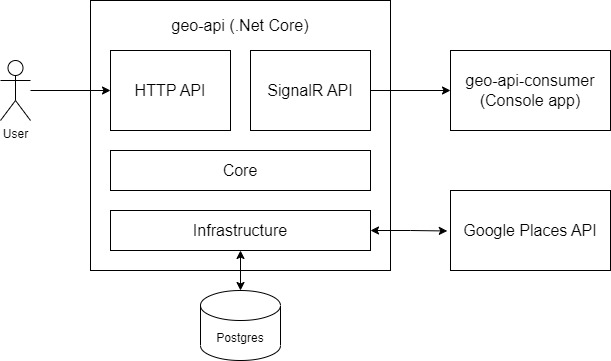
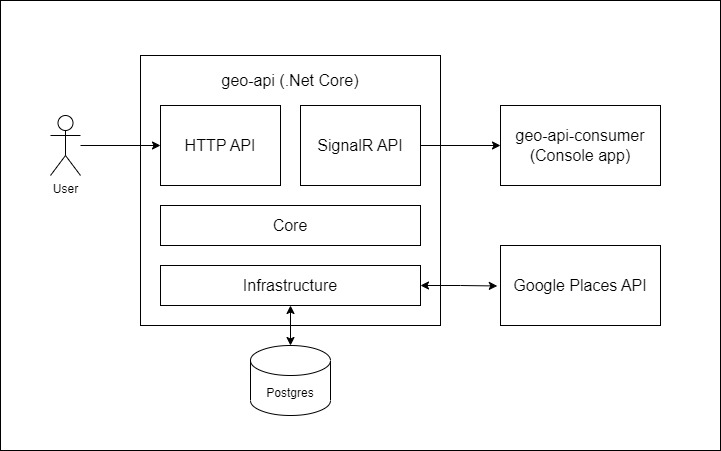
Update README

diff --git a/geo-api-consumer/Program.cs b/geo-api-consumer/Program.cs
@@ -8,7 +8,7 @@ var connection = new HubConnectionBuilder()
 
 connection.On<string>("ReceiveMessage", Console.WriteLine);
 
-connection.Reconnecting += (_) =>
+connection.Reconnecting += _ =>
 {
     Console.WriteLine("Connection lost. Reconnecting...");
     return Task.CompletedTask;

diff --git a/README.md b/README.md
@@ -1,3 +1,45 @@
 # geo-api
 
+This is a prototype implementation of a high traffic API.
+The application exposes an HTTP API that allows the user to query for information around a specific loication.
+Under the hood, the app calls the Google Places API to get the information.
+Every request is then logged, audited to the database and sent to all the subscribers connected to a SignalR hub.
 
+System architecture:
+
+![alt text](system-architecture.jpg)
+
+### Scaling the application
+
+The application is designed so that it can be easily distributed and scaled horizontally and vertically.
+There are certain tradeoffs in scaling the HTTP and SignalR APIs, while they also differ in communication protocols.
+Application instances can easily be put behind an API gateway or a load balancer that control the traffic and reduce the
+pressure on each of the instances while also controlling authentication/authorization concerns and hiding the actual
+servers that do the bulk of the work.
+
+#### Scaling the HTTP API
+
+The API can be easily be scaled vertically by assigning more compute power to the application.
+Most of the time, this is a more expensive option so it's usually better to scale it horizontally by adding more
+instances of the application. This could improve availability and maintenance costs, but usually also requires a gateway
+or a load balancer and is (usually) more complex to manage.
+Additionally, a layer of caching (Redis, custom) can be added so that incoming duplicate requests or requests with close
+enough search parameters or responses can get cached, precomputed answers which can reduce the response time drastically
+since there are no database or API trips to get the data.
+The idea is making the HTTP API as stateless as possible so it can handle more traffic.
+
+#### Scaling SignalR
+
+Similar to the HTTP API, the first idea would be to allocate more compute. That works to a certain point, because there
+is only so much traffic one instance can handle (read: the number of concurrent TCP connections that can be supported at
+a time is limited).
+This also introduces a single point of failure and possible traffic congestion during high traffic periods.
+A better solution would (most of the time) be scaling out horizontally.
+On the other hand, a signalR app needs to keep track of all its connections, which is a problem for a distributed
+system.
+There needs to be a mechanism for SignalR to keep track of all the available connections and sending messages between
+instances to the connections.
+The solution would be to use a Redis backplane to sync the application instances using SignalR about the available
+connections and connected clients.
+Another solution would be to use Azure SignalR Service that acts as a backplane and a proxy for the application
+instances.
